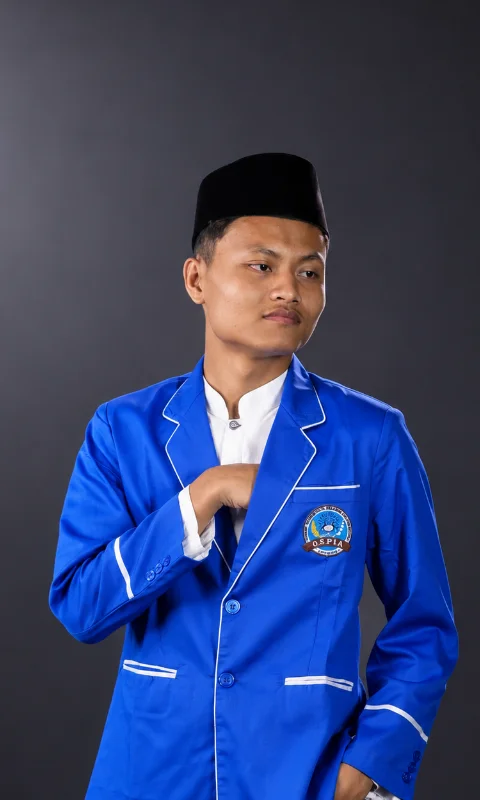
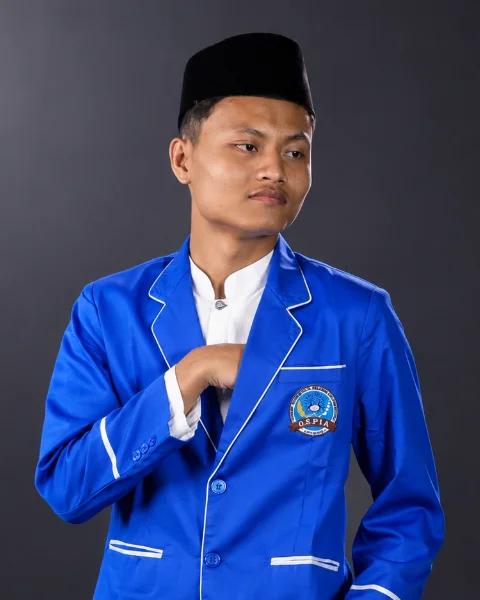
membuat section tentang diri sendiri dalam index.html

diff --git a/index.html b/index.html
@@ -4,7 +4,7 @@
 <head>
 	<meta charset="UTF-8">
 	<meta name="viewport" content="width=device-width, initial-scale=1.0">
-	<title>Portfolio - Iqbal Maulana Alfiqi</title>
+	<title>Portfolio | Iqbal Maulana Alfiqi</title>
 </head>
 <body>
 	<header>
@@ -27,6 +27,90 @@
       </nav>
 	</header>
 	<main>
+	
+		<!-- ======== HERO ======== -->
+		
+		<section id="beranda">
+		
+			<!-- Teks Hero dan Paragraf Pembuka -->
+			<h1>Versatile Creative Worker Here</h1>
+			<p>Merancang konten yang efektif untuk menjangkau audiens dan membangun kepercayaan terhadap brand.</p>
+			
+			<!-- Section Tambahan-->
+			<a href="#tentang" class="">Lihat Profil</a>
+			<a href="#galeri" class="">Koleksi Galeri</a>
+		</section>
+		
+		<!-- ======== TENTANG DIRI ======== -->
+		
+		<section id="tentang">
+		
+			<!-- Foto Profil -->
+			<img src="assets/images/foto-profil.webp" alt="Photo Profile" width="400">
+			
+			<!-- Paragraf Inti -->
+			<h3>Hai,</h3>
+			<h2>Iqbal Maulana Alfiqi, Salam Kenal!</h2>
+			<p>
+				Seorang pemuda yang memiliki ketertarikan dalam dunia teknologi dan industri kreatif, 
+				Juga seorang santri dari MA Ibnu Abbas As Salafy yang berlandaskan pemahaman Ahlussunnah. 
+				Di samping menjalani pendidikan, kami belajar bagaimana membuat konten yang efektif di media 
+				sosial sebagai langkah untuk mengembangkan diri menjadi kreator konten profesional. Kami juga 
+				terus mengasah keterampilan dalam berbagai software kreatif profesional.
+			</p>
+			
+			<!-- Pengalaman Selama Ini -->
+			<h2>Pengalaman & Organisasi</h2>
+			<ul>
+				<li>- Desainer dan Pengelola Website Organisasi Majalah Santri</li>
+				<li>- Koordinator Divisi IT Perpustakaan Ibnu Abbas As-Salafy</li>
+				<li>- Wakil Divisi Media Organisasi Santri Pondok Pesantren Ibnu Abbas </li>
+				<li>- Peserta Kelas Desain Grafis Menggunakan CorelDRAW</li>
+				<li>- Peserta Kelas Pemrograman Website</li>
+			</ul>
+			
+			<!-- ===== Software Kreatif yang dikuasai ===== -->
+			<h2>Creative Tools</h2>
+			
+			<img src="assets/icons/affinity.png">
+			<p>Affinity by Canva</p>
+			
+			<img src="assets/icons/coreldraw.png">
+			<p>CorelDRAW</p>
+			
+			<img src="assets/icons/adobe-lightroom.png">
+			<p>Adobe Lightroom</p>
+			
+			<img src="assets/icons/snapseed.png">
+			<p>Snapseed</p>
+			
+			<img src="assets/icons/davinci-resolve.png">
+			<p>DaVinci Resolve</p>
+			
+			<!-- ===== Web Development / Penguasaan Dalam Web Building ===== -->
+			<h2>Web Development</h2>
+			
+			<img src="assets/icons/html.png">
+			<p>HTML</p>
+			
+			<img src="assets/icons/css.png">
+			<p>CSS</p>
+			
+			<!-- ===== AI & Workflow ===== -->
+			<h2>AI & Workflow</h2>
+			
+			<img src="assets/icons/chatgpt.png">
+			<p>ChatGPT</p>
+			
+			<img src="assets/icons/claude.png">
+			<p>Claude</p>
+			
+			<img src="assets/icons/gemini.png">
+			<p>Gemini</p>
+			
+			<img src="assets/icons/notebooklm.png">
+			<p>NotebookLM</p>
+		</section>
 		
 	</main>
 	<footer>
